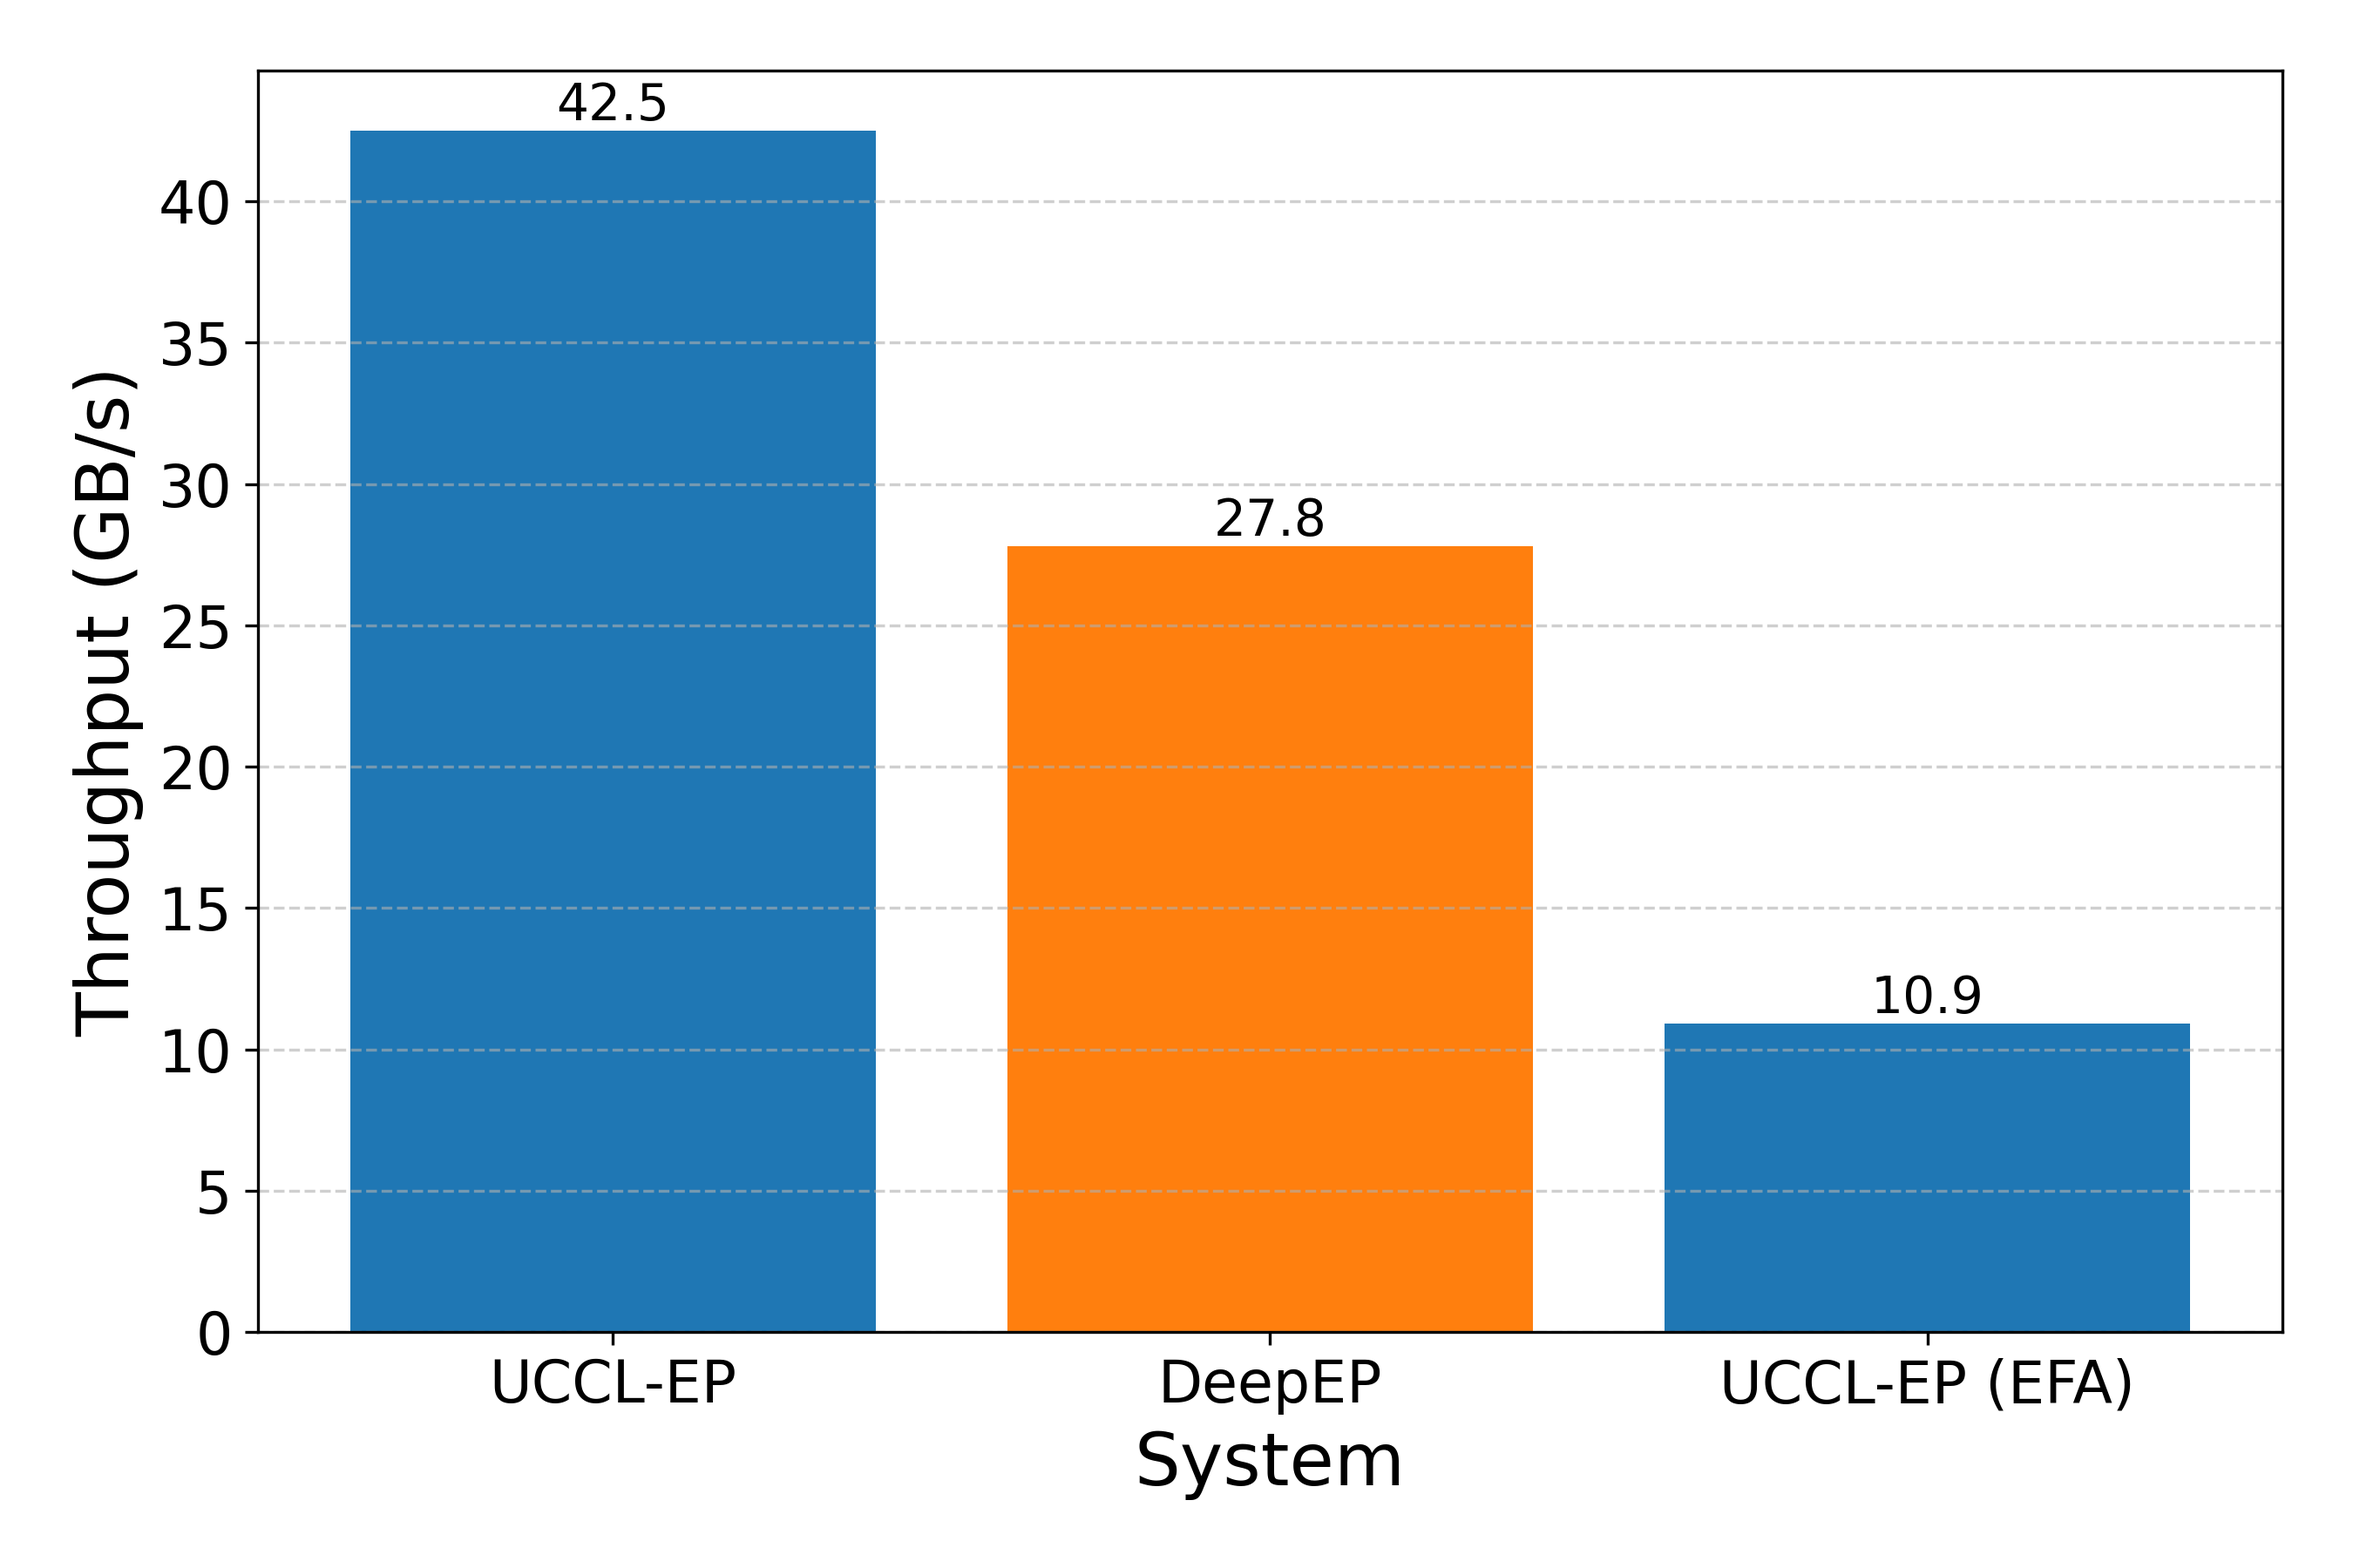
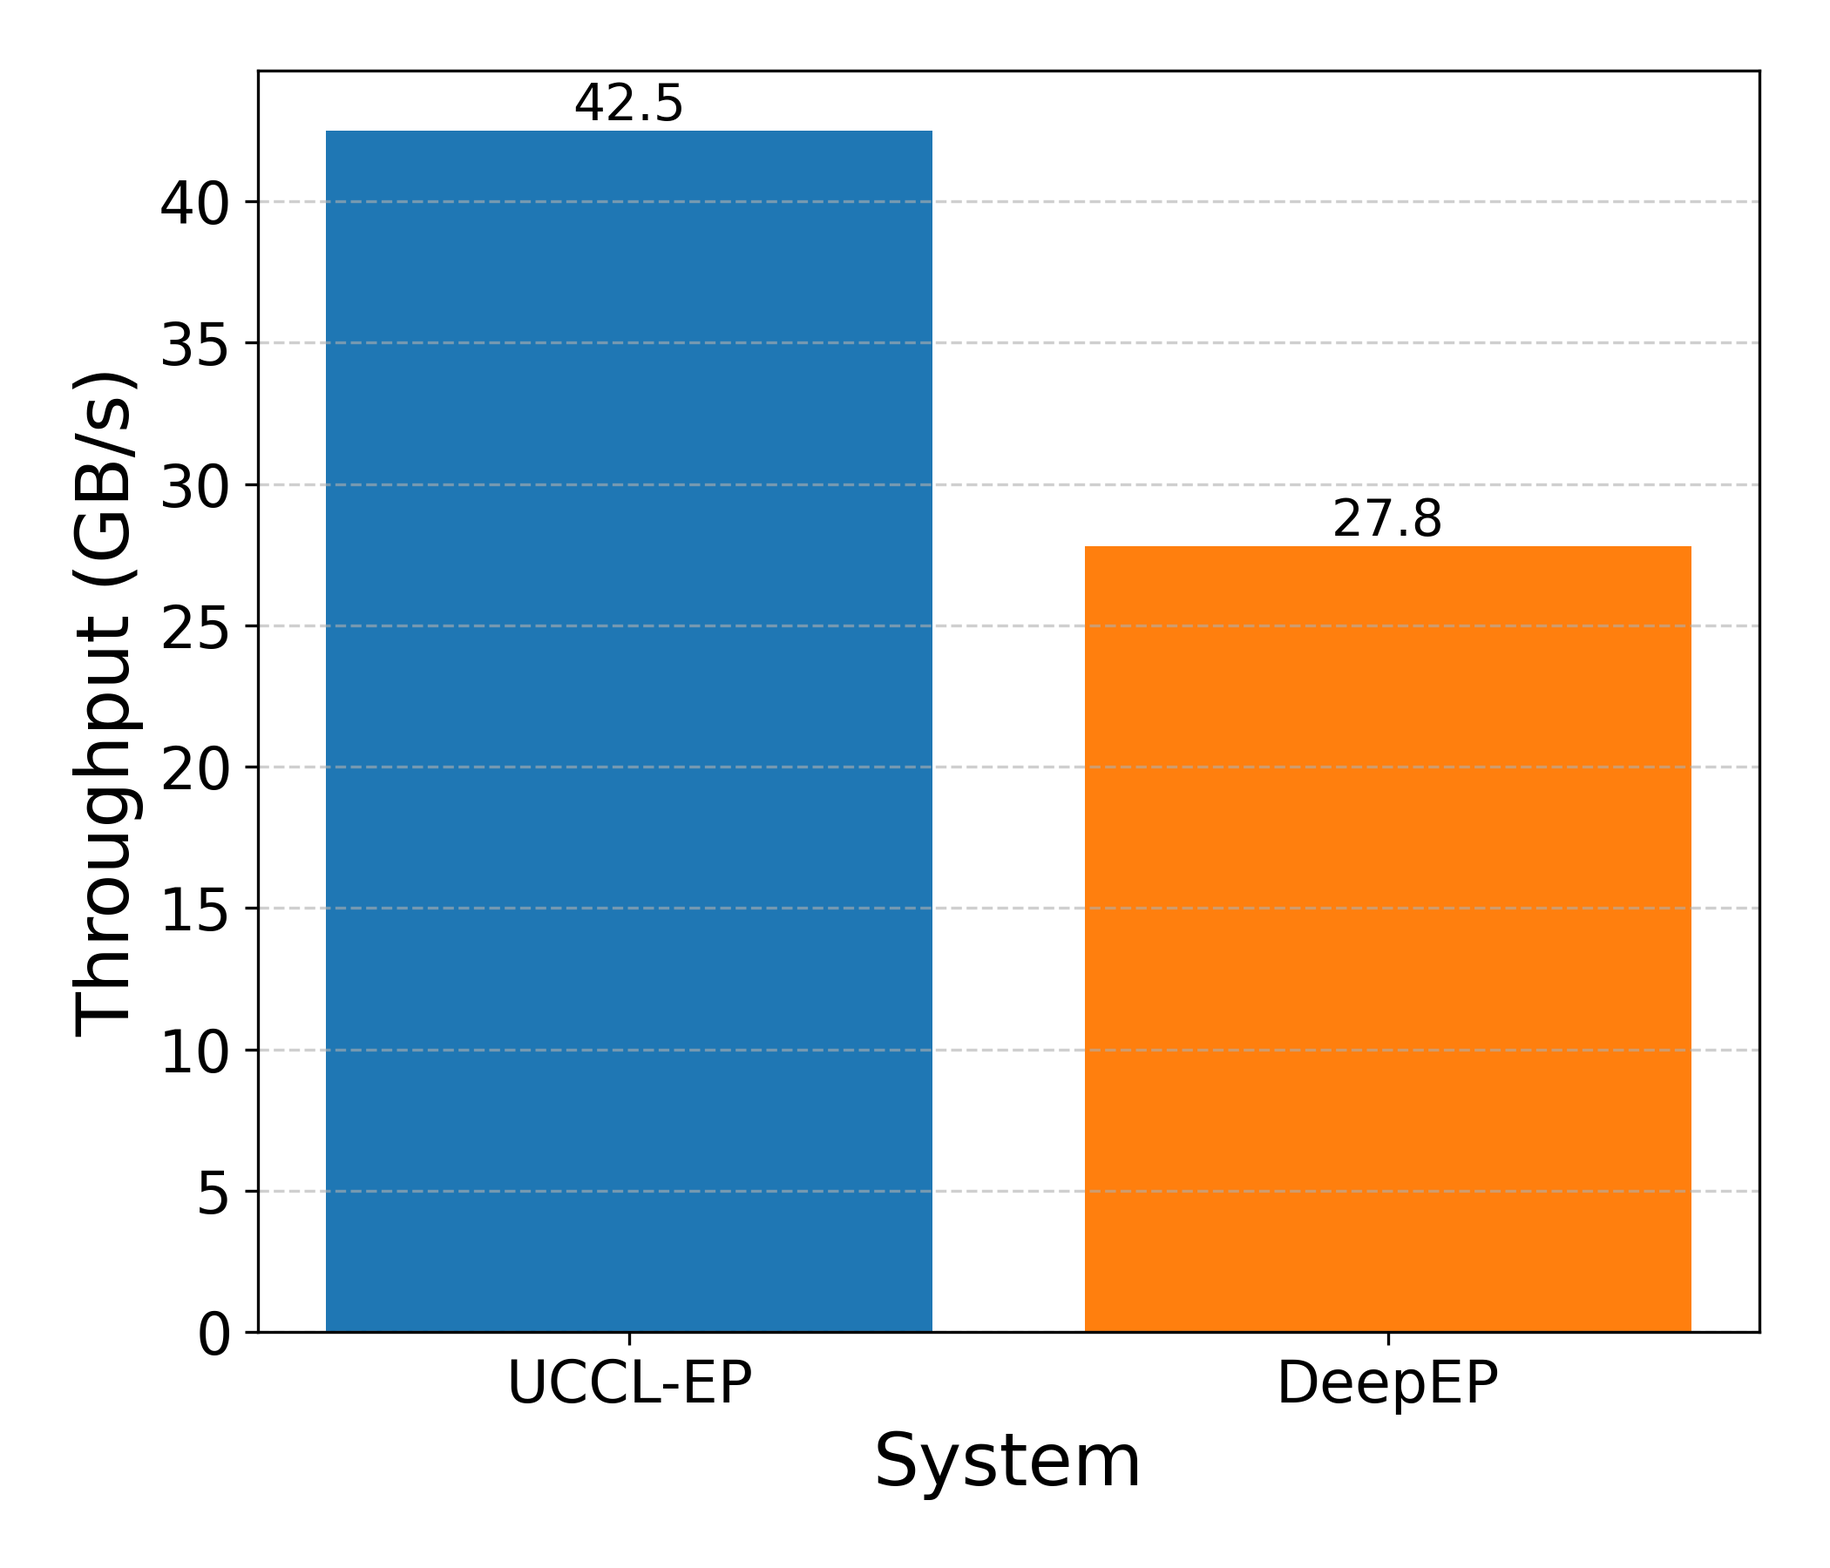
plotting script

diff --git a/ep/bench/bench_upper_bound_all2all.py b/ep/bench/bench_upper_bound_all2all.py
@@ -40,15 +40,15 @@ out as:
 At the receiver:
 - recvbuf is reorganized into CSR-like groups keyed by (src_rank, local_expert_id),
   so you can slice each group without Python dictionaries/lists.
-  
+
 export MASTER_ADDR=10.1.227.34
 export MASTER_PORT=29500
 export OMP_NUM_THREADS=1
 export NCCL_DEBUG=WARN
 export TORCH_NCCL_ASYNC_ERROR_HANDLING=1
-torchrun --nnodes=2 --nproc_per_node=1  --node_rank=0 --master_addr=$MASTER_ADDR --master_port=$MASTER_PORT   bench_upper_bound_all2all.py   --num-tokens 4096 --hidden 7168 --num-experts 256 --num-topk 8   --use-real-payload --include-processing --verify --remote-only
+torchrun --nnodes=2 --nproc_per_node=8  --node_rank=0 --master_addr=$MASTER_ADDR --master_port=$MASTER_PORT   bench_upper_bound_all2all.py   --num-tokens 4096 --hidden 7168 --num-experts 256 --num-topk 8   --use-real-payload --include-processing --verify --remote-only
 
-torchrun --nnodes=2 --nproc_per_node=1   --node_rank=1 --master_addr=$MASTER_ADDR --master_port=$MASTER_PORT   bench_upper_bound_all2all.py   --num-tokens 4096 --hidden 7168 --num-experts 256 --num-topk 8   --use-real-payload --include-processing --verify --remote-only
+torchrun --nnodes=2 --nproc_per_node=8   --node_rank=1 --master_addr=$MASTER_ADDR --master_port=$MASTER_PORT   bench_upper_bound_all2all.py   --num-tokens 4096 --hidden 7168 --num-experts 256 --num-topk 8   --use-real-payload --include-processing --verify --remote-only
 
 """
 
@@ -553,19 +553,12 @@ def main():
         nic_only_GBps_dec = (
             (inter_node_bytes / comm_time) / 1e9 if inter_node_bytes > 0 else 0.0
         )
-        ideal_nic_s_dec = (
-            (inter_node_bytes / (theo_GBps_dec * 1e9))
-            if inter_node_bytes > 0
-            else float("inf")
-        )
-
     else:
         total_GBps_dec = remote_GBps_dec = local_GBps_dec = 0.0
         e2e_total_GBps_dec = 0.0
         theo_GBps_dec = (args.nic_gbps / 8.0) * args.efficiency * args.nic_count
         ideal_remote_s_dec = float("inf")
         nic_only_GBps_dec = 0.0
-        ideal_nic_s_dec = float("inf")
 
     # Optional verification / debug
     if recv_total and (args.verify or args.debug_print):
@@ -677,10 +670,7 @@ def main():
                 f"theoretical NIC ceiling (decimal)           ~ {theo_GBps_dec:.2f} GB/s"
             )
             print(
-                f"ideal network-only time vs ceiling          ~ {ideal_remote_s_dec*1e6:.1f} us"
-            )
-            print(
-                f"ideal NIC-only time vs ceiling              ~ {ideal_nic_s_dec*1e6:.1f} us"
+                f"theoretical network-only time          ~ {ideal_remote_s_dec*1e6:.1f} us"
             )
 
         # Breakdown (when processing included)
@@ -694,6 +684,9 @@ def main():
             )
             print(
                 f"Reorganize:  avg={r_avg*1e6:.1f} us  min={r_min*1e6:.1f} us  max={r_max*1e6:.1f} us"
+            )
+            print(
+                f"Overall:     avg={avg_s*1e6:.1f} us  min={min_s*1e6:.1f} us  max={max_s*1e6:.1f} us"
             )
 
     # Clean shutdown

diff --git a/ep/figs/plot_latency_aws.py b/ep/figs/plot_latency_aws.py
@@ -1,0 +1,83 @@
+import matplotlib.pyplot as plt
+import numpy as np
+
+# ---------------------------
+# Data (Throughput in GB/s)
+# ---------------------------
+gpus = [16, 24, 32]  # 2, 3, 4 nodes
+
+uccl_dispatch_tp = [2.788, 1.131, 0.7224]
+uccl_combine_tp = [4.249, 1.941, 1.325]
+pplx_dispatch_tp = [1.027, 0.809, 0.693]
+pplx_combine_tp = [1.840, 1.324, 1.098]
+
+# Averages for sparse systems
+uccl_avg_tp = np.mean([uccl_dispatch_tp, uccl_combine_tp], axis=0)
+pplx_avg_tp = np.mean([pplx_dispatch_tp, pplx_combine_tp], axis=0)
+
+# Relative throughput (normalize to best per GPU count)
+throughput_matrix = np.vstack([uccl_avg_tp, pplx_avg_tp])
+baseline_tp = np.max(throughput_matrix, axis=0)  # best system for each GPU count
+uccl_rel_tp = uccl_avg_tp / baseline_tp
+pplx_rel_tp = pplx_avg_tp / baseline_tp
+
+# ---------------------------
+# Data (Latency in µs)
+# ---------------------------
+uccl_dispatch_lat = [2694, 6643, 10399]
+uccl_combine_lat = [3421, 7491, 10968]
+pplx_dispatch_lat = [7446, 9363, 10924]
+pplx_combine_lat = [9841, 11095, 13380]
+
+# Averages for sparse systems
+uccl_avg_lat = np.mean([uccl_dispatch_lat, uccl_combine_lat], axis=0)
+pplx_avg_lat = np.mean([pplx_dispatch_lat, pplx_combine_lat], axis=0)
+
+# Relative latency (normalize to best per GPU count)
+latency_matrix = np.vstack([uccl_avg_lat, pplx_avg_lat])
+baseline_lat = np.min(latency_matrix, axis=0)  # best (lowest) system per GPU count
+uccl_rel_lat = uccl_avg_lat / baseline_lat
+pplx_rel_lat = pplx_avg_lat / baseline_lat
+
+# ---------------------------
+# Plot settings
+# ---------------------------
+plt.rcParams.update(
+    {
+        "font.size": 18,
+        "axes.labelsize": 20,
+        "xtick.labelsize": 16,
+        "ytick.labelsize": 16,
+        "legend.fontsize": 16,
+        "lines.linewidth": 3,
+        "lines.markersize": 10,
+    }
+)
+
+# ---------------------------
+# Plot Relative Throughput
+# ---------------------------
+plt.figure(figsize=(8, 6))
+plt.plot(gpus, uccl_rel_tp, marker="o", label="UCCL-EP")
+plt.plot(gpus, pplx_rel_tp, marker="s", label="Pplx")
+plt.xlabel("Number of GPUs")
+plt.ylabel("Relative Throughput (×)")
+plt.grid(True, linestyle="--", alpha=0.6)
+plt.legend()
+plt.tight_layout()
+plt.savefig("throughput_vs_gpus_relative.png", dpi=300)
+plt.show()
+
+# ---------------------------
+# Plot Relative Latency
+# ---------------------------
+plt.figure(figsize=(8, 6))
+plt.plot(gpus, uccl_rel_lat, marker="o", label="UCCL-EP")
+plt.plot(gpus, pplx_rel_lat, marker="s", label="Pplx")
+plt.xlabel("Number of GPUs")
+plt.ylabel("Relative Latency (×)")
+plt.grid(True, linestyle="--", alpha=0.6)
+plt.legend()
+plt.tight_layout()
+plt.savefig("latency_vs_gpus_relative.png", dpi=300)
+plt.show()

diff --git a/ep/figs/plot_gh200_relative.py b/ep/figs/plot_gh200_relative.py
@@ -1,0 +1,56 @@
+import matplotlib.pyplot as plt
+import numpy as np
+
+# ---------------------------
+# Data (Latency in µs, incl. GEMM)
+# ---------------------------
+systems = ["UCCL-EP", "DeepEP"]
+
+lat_min_us = [507.94, 650.24]
+lat_max_us = [540.83, 846.6]
+
+# Compute average
+lat_avg_us = np.mean([lat_min_us, lat_max_us], axis=0)
+
+idx = np.arange(len(systems))
+
+# ---------------------------
+# Plot settings
+# ---------------------------
+plt.rcParams.update(
+    {
+        "font.size": 18,
+        "axes.labelsize": 20,
+        "xtick.labelsize": 16,
+        "ytick.labelsize": 16,
+        "legend.fontsize": 16,
+        "lines.linewidth": 3,
+        "lines.markersize": 10,
+    }
+)
+
+# ---------------------------
+# Plot Average Latency
+# ---------------------------
+plt.figure(figsize=(7, 6))
+bars = plt.bar(idx, lat_avg_us, color=["#1f77b4", "#ff7f0e"])
+plt.xticks(idx, systems, rotation=0)
+plt.xlabel("System")
+plt.ylabel("Average Latency (µs)")
+plt.grid(True, axis="y", linestyle="--", alpha=0.6)
+
+# Annotate bars
+for rect, val in zip(bars, lat_avg_us):
+    h = rect.get_height()
+    plt.text(
+        rect.get_x() + rect.get_width() / 2.0,
+        h,
+        f"{val:.2f}",
+        ha="center",
+        va="bottom",
+        fontsize=14,
+    )
+
+plt.tight_layout()
+plt.savefig("latency_avg_comparison.png", dpi=300)
+plt.show()

diff --git a/ep/figs/plot_gh200_throughput_relative.py b/ep/figs/plot_gh200_throughput_relative.py
@@ -1,0 +1,51 @@
+import matplotlib.pyplot as plt
+import numpy as np
+
+# ---------------------------
+# Data (Throughput in GB/s)
+# ---------------------------
+systems = ["UCCL-EP", "DeepEP"]
+
+throughput_gbps = [42.5, 27.8]
+
+idx = np.arange(len(systems))
+
+# ---------------------------
+# Plot settings
+# ---------------------------
+plt.rcParams.update(
+    {
+        "font.size": 18,
+        "axes.labelsize": 20,
+        "xtick.labelsize": 16,
+        "ytick.labelsize": 16,
+        "legend.fontsize": 16,
+        "lines.linewidth": 3,
+        "lines.markersize": 10,
+    }
+)
+
+# ---------------------------
+# Plot Throughput
+# ---------------------------
+plt.figure(figsize=(7, 6))
+bars = plt.bar(idx, throughput_gbps, color=["#1f77b4", "#ff7f0e"])
+plt.xticks(idx, systems, rotation=0)
+plt.xlabel("System")
+plt.ylabel("Throughput (GB/s)")
+plt.grid(True, axis="y", linestyle="--", alpha=0.6)
+
+# Annotate bars
+for rect, val in zip(bars, throughput_gbps):
+    h = rect.get_height()
+    plt.text(
+        rect.get_x() + rect.get_width() / 2.0,
+        h,
+        f"{val:.1f}",
+        ha="center",
+        va="bottom",
+        fontsize=14,
+    )
+
+plt.tight_layout()
+plt.savefig("throughput_comparison.png", dpi=300)
